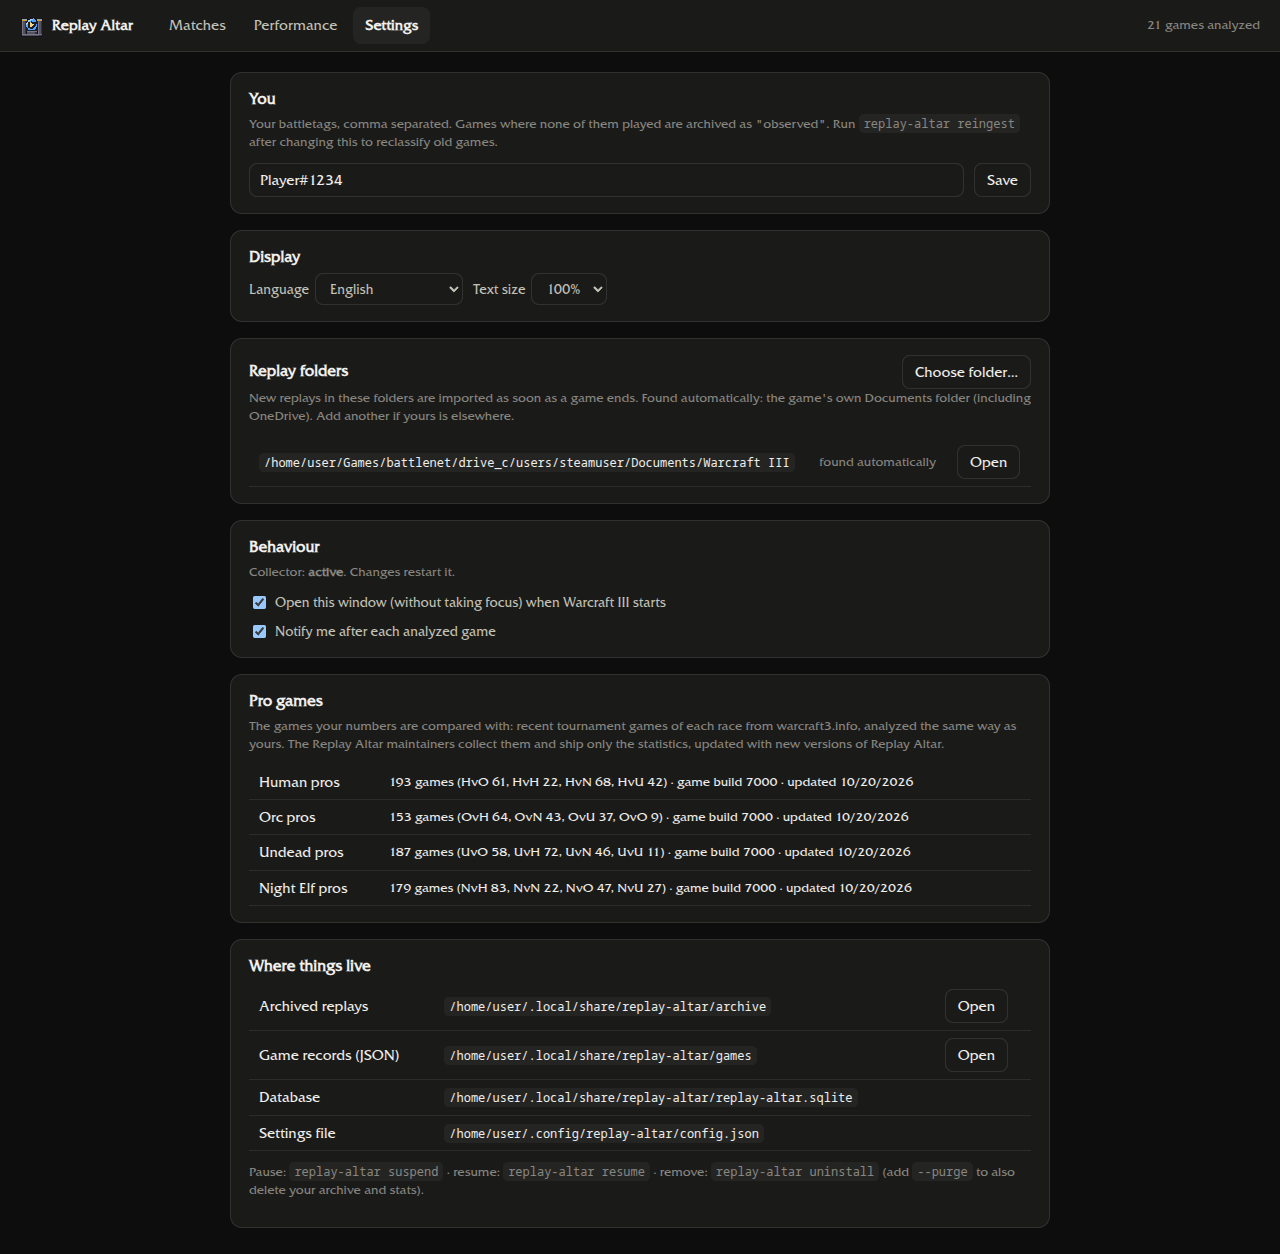
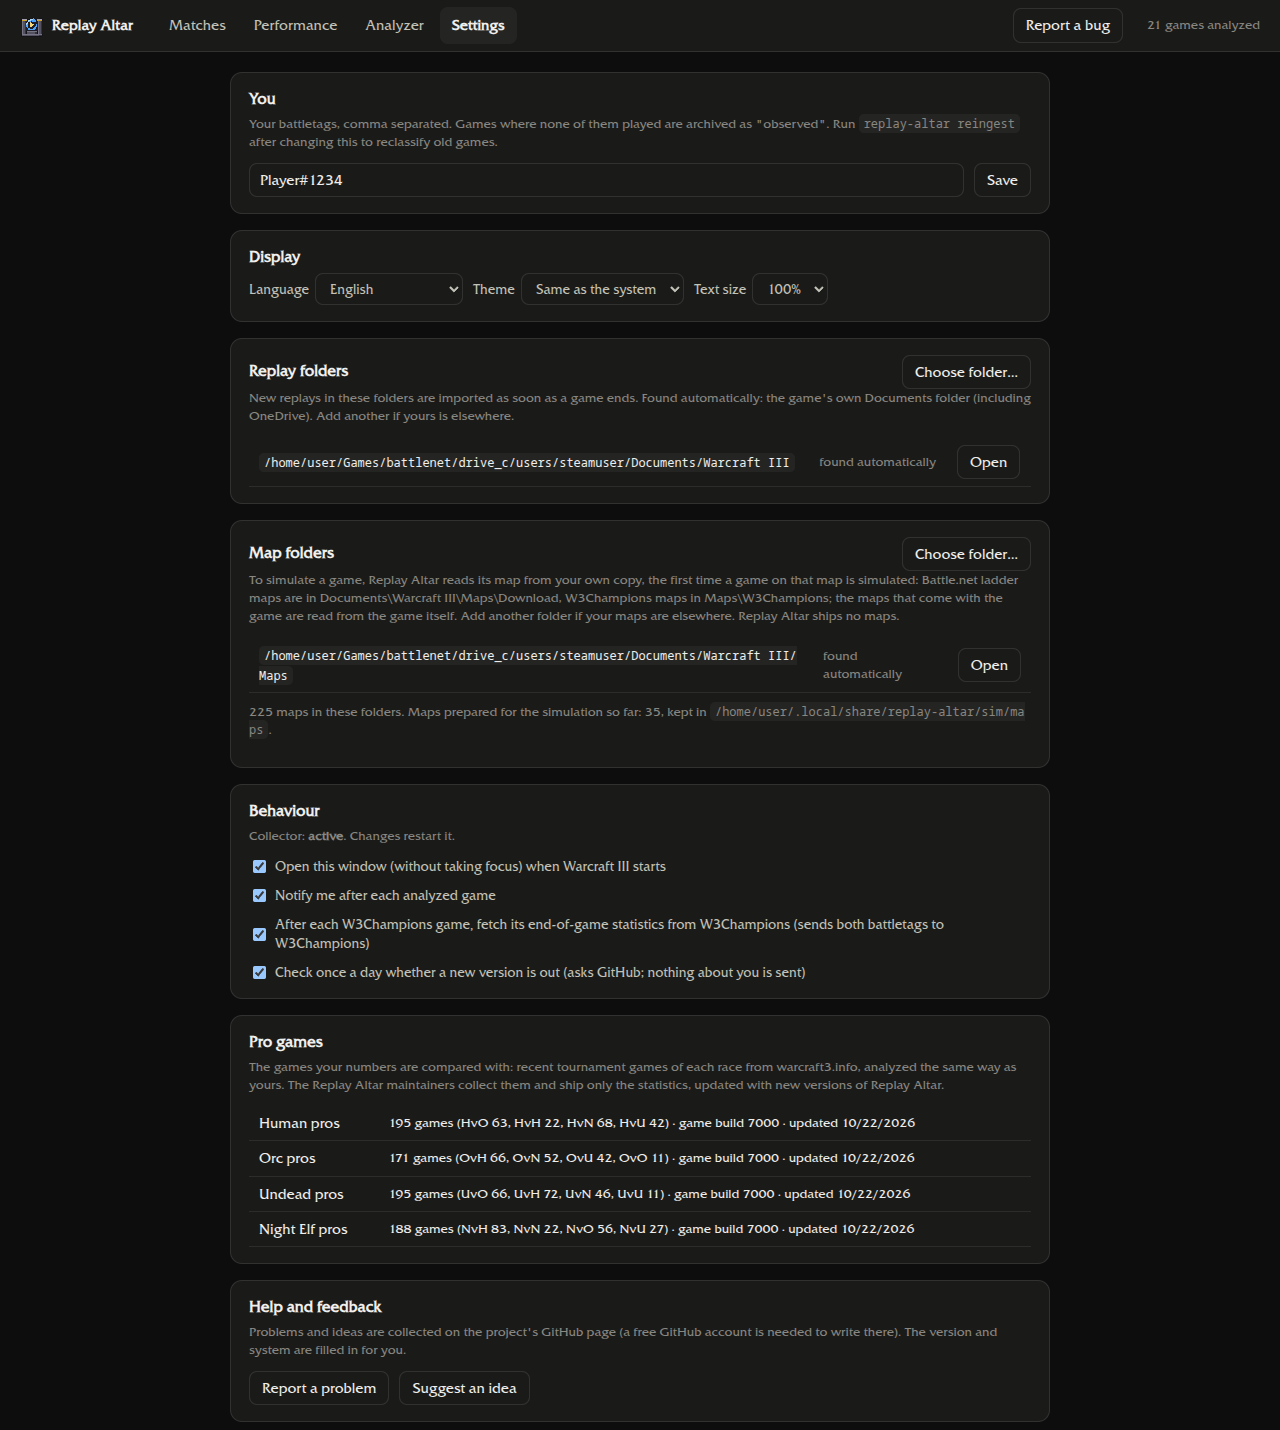
README: new screenshots (a won and a lost game's report, the Analyzer, Settings), a feature list that says what the app does for a player; hide-names also covers analyzed replays

diff --git a/scripts/hide-names.ts b/scripts/hide-names.ts
@@ -20,6 +20,9 @@ const root = join(import.meta.dirname, "..");
 const dbs = [join(dataDir(), "replay-altar.sqlite")];
 const refDir = join(dataDir(), "reference");
 if (existsSync(refDir)) for (const g of readdirSync(refDir)) if (existsSync(join(refDir, g, "reference.sqlite"))) dbs.push(join(refDir, g, "reference.sqlite"));
+// Replays analyzed on the Analyzer page, each in a folder of its own.
+const analyzerDir = join(dataDir(), "analyzer");
+if (existsSync(analyzerDir)) for (const a of readdirSync(analyzerDir)) if (existsSync(join(analyzerDir, a, "replay-altar.sqlite"))) dbs.push(join(analyzerDir, a, "replay-altar.sqlite"));
 
 const names = new Set<string>();
 for (const file of dbs) {

diff --git a/README.md b/README.md
@@ -6,16 +6,18 @@ Replay Altar is a Warcraft III: Reforged replay analyzer for 1v1 players. It run
 
 [Download](https://github.com/bubunuh/replay-altar/releases)
 
-- **Every replay kept.** A small background program saves each replay the moment a game ends, before the game overwrites `LastReplay.w3g`. Battle.net ladder, W3Champions and custom melee games are all picked up.
-- **The game reconstructed.** Each 1v1 is simulated from its replay with [WC3V](https://github.com/jblanchette/wc3v): workers, army value, supply, creep camps, hero levels and fights over time.
-- **Compared with pros.** Your numbers are set against about 200 recent tournament games per race, played on your current patch and analyzed on your computer the same way.
-- **A report per game.** Rules drawn from well-known guides (Grubby, Liquipedia, Warcraft 3 Gym, Vortix and others) point out the main problems, the facts behind them, the fight that turned the game, your strengths and the opponent's plan. Each finding comes with concrete advice.
+- **Every replay kept, automatically.** A small background program saves each replay the moment a game ends, before the game overwrites `LastReplay.w3g`. Battle.net ladder, W3Champions and custom melee games are all picked up, with nothing to upload or click.
+- **The game reconstructed.** Each 1v1 is simulated from its replay with the [WC3V](https://github.com/jblanchette/wc3v) engine: workers, army value, supply, creep camps, hero levels and fights over time.
+- **A coach's report after every game.** Rules drawn from well-known guides (Grubby, Liquipedia, Warcraft 3 Gym, Vortix and others) name the problems that cost you the game, show the facts behind each one, explain why it happened and say what to do next time. The report also points out the fight that turned the game (with the moment to rewatch), your strengths and the opponent's plan.
+- **One thing to work on.** Each report ends with the single most useful habit for your next game. Across your recent games, the Performance page picks the problem that keeps coming back and shows whether it is getting better.
+- **Every number in context.** Your numbers are placed among about 200 recent tournament games of your race and matchup, on the current patch ("better than 86% of pro games"), with a green, yellow or red verdict: at pro level, at least as good as your opponent, or behind both.
+- **Knows your build.** It recognises the build order each player went for, from guide builds and builds mined from pro games, and shows where your timings drifted from the pros who play it.
 - **Your progress.** Win rates by matchup, map and game length; problems that keep coming back; how you play in wins against losses; any number over time.
-- **Analyze any replay:** the Analyzer tab analyzes a 1v1 replay that isn't yours (a pro game, one found online) from the side of the player you choose, without counting it in your stats; it warns when the replay is from an older version of the game.
+- **Any replay, not only yours.** The Analyzer tab analyzes a 1v1 replay you found, such as a pro game, from the side of the player you choose, without counting it in your stats.
 - **Share a report** as text or as a PDF of the whole report, for Reddit or Discord, without your opponent's battletag.
-- **English, Brazilian Portuguese, Spanish and French.**
+- **Private and local.** Everything runs on your computer, with no account. In English, Brazilian Portuguese, Spanish and French.
 
-![The report of a game: result, heroes, the main numbers against the opponent, the map, and the findings with advice](docs/images/report.png)
+![The report of a won game: result, heroes, the main numbers against the opponent, the map, and the findings with advice](docs/images/report.png)
 
 Your games stay on your computer. Replay Altar fetches only two things from the internet, and Settings can turn off either: the game's own end-of-game statistics for your W3Champions games (a few small requests per game, one game at a time; they carry both battletags), and once a day the list of Replay Altar releases from GitHub, to tell you when a new version is out. The pro statistics come with the app, and no maps are shipped: each game's map is read from your own copy. See the [privacy policy](PRIVACY.md).
 
@@ -63,6 +65,10 @@ Custom maps, games against the computer, team games and games you only observed 
 
 Player names in these screenshots are replaced with placeholders.
 
+**A lost game:** the problems that decided it, with the facts, the reason behind each and what to do next time, the fight that turned it and the moment to rewatch.
+
+![The report of a lost game: three findings with evidence and advice, the turning point, and one thing for next game](docs/images/report-loss.png)
+
 **Matches**
 
 ![The list of games with result, matchup, opponent, map, length, APM, source and main problem](docs/images/matches.png)
@@ -75,9 +81,13 @@ Player names in these screenshots are replaced with placeholders.
 
 ![Win rate, recurring problems and win rates by matchup, map and game length](docs/images/performance.png)
 
+**Analyzer:** any 1v1 replay, from the side of the player you choose, with a warning when it comes from an older version of the game.
+
+![The Analyzer: a picked replay with a warning about its game version, the player to analyze, and the list of analyzed replays](docs/images/analyzer.png)
+
 **Settings**
 
-![Settings: battletags, language, replay folders, behaviour and pro games](docs/images/settings.png)
+![Settings: battletags, language and theme, replay and map folders, behaviour, pro games, and help and feedback](docs/images/settings.png)
 
 When Warcraft III starts, the window opens behind the game without taking focus, and a notification after each game opens its report. Both can be turned off in Settings.
 
